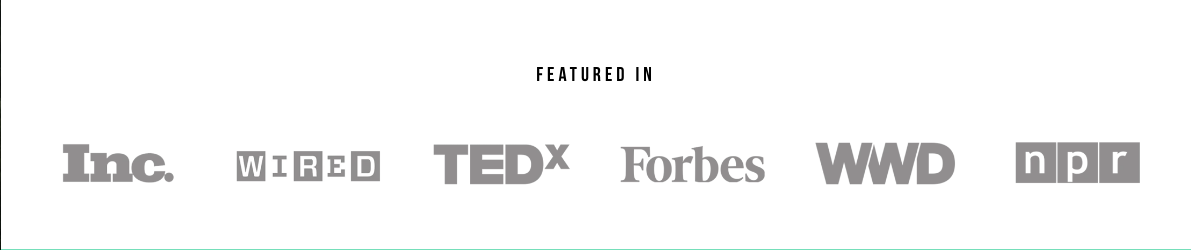
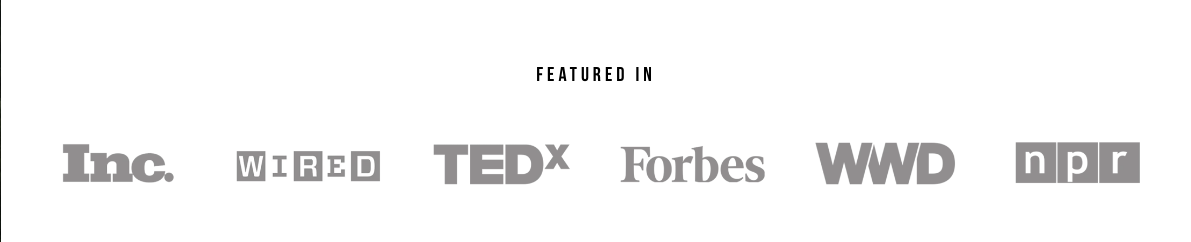
created badges section

diff --git a/components/index.html b/components/index.html
@@ -205,7 +205,7 @@
             <article class="component">
                 <h3 class="component__name">.cover-section-hero</h3>
                 <div class="component__img">
-                    <img srcset="img/banner__section.png 1.1x" src="img/banner__section.png" alt="button cta" />
+                    <img srcset="img/banner__section.png 1.1x" src="img/banner__section.png" alt="banner image" />
                 </div>
             
                 <div class="component__code">
@@ -223,9 +223,66 @@
                 </div>
                
             </article>
-            </section>
-        </section>
+    </section>
+
+<!-- badges section -->
+    <section class="page-section">
+        <h2 class="component__heading">Badges Section</h2>
+        <article class="component">
+            <h3 class="component__name">.badges-section</h3>
+            <div class="component__img">
+                <img srcset="img/badges__section.png 1.1x" src="img/badges__section.png" alt="badges row image"/>
+            </div>
+    
+            <div class="component__code">
+                <div class="badges-section">
+                    <h5>Featured In</h5><br>
+                    <div class="badges-wrapper">
+                        <div class="badge"><img srcset="/img/1-inc-badge.jpg 1.1x" src="/img/1-inc-badge.jpg" alt="badges image" /></div>
+                        <div class="badge"><img srcset="/img/2-wired-badge.jpg 1.1x" src="/img/2-wired-badge.jpg" alt="badges image" /></div>
+                        <div class="badge"><img srcset="/img/3-ted-badge.jpg 1.1x" src="/img/3-ted-badge.jpg" alt="badges image" /></div>
+                        <div class="badge"><img srcset="/img/4-forbes-badge.jpg 1.1x" src="/img/4-forbes-badge.jpg" alt="badges image" /></div>
+                        <div class="badge"><img srcset="/img/5-wwd-badge.jpg 1.1x" src="/img/5-wwd-badge.jpg" alt="badges image" /></div>
+                        <div class="badge"><img srcset="/img/6-npr-badge.jpg 1.1x" src="/img/6-npr-badge.jpg" alt="badges image" /></div>
+
+                    </div>
+
+                </div>
+            </div>
+    
+        </article>
+    </section>
+
+    <section class="page-section">
+        <h2 class="component__heading">Facts Section</h2>
+        <wrapper class="component">
+            <h3 class="component__name">.facts-section</h3>
+            <div class="component__img">
+                <img srcset="" src="" alt="image" />
+            </div>
+    
+            <div class="component__code">
+                <div class="container">
+                    <div class="container">
+                        <h6></h6>
+    
+    
+    
+                    </div>
+    
+                </div>
+            </div>
+    
+        </wrapper>
+    </section>
+
 
 </body>
 <script src="https://kit.fontawesome.com/3007713ba7.js" crossorigin="anonymous"></script>
 </html>
+
+
+
+
+
+

diff --git a/css/main.css b/css/main.css
@@ -483,7 +483,23 @@ a:link .button__support {
   padding: 100px 0;
 }
   
-
+/**
+* Badges Section */
+.badges-section{
+    padding: 50px 0 20px;
+    /* background-color: var(--teal); */
+}
+.badges-wrapper{
+    display: grid;
+    grid-template-columns: repeat(auto-fit, minmax(150px, 1fr));
+    grid-template-rows: 1fr ;
+    grid-gap: 5px;
+    margin: 0 70px;
+}
+.badge {
+    color: #fff;
+    text-align: center;
+}
 
 
 /***************************************************
